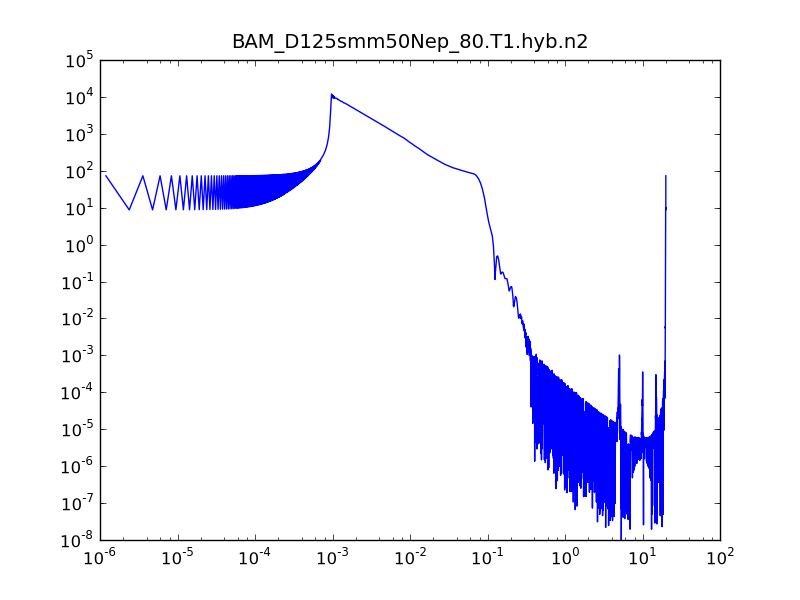
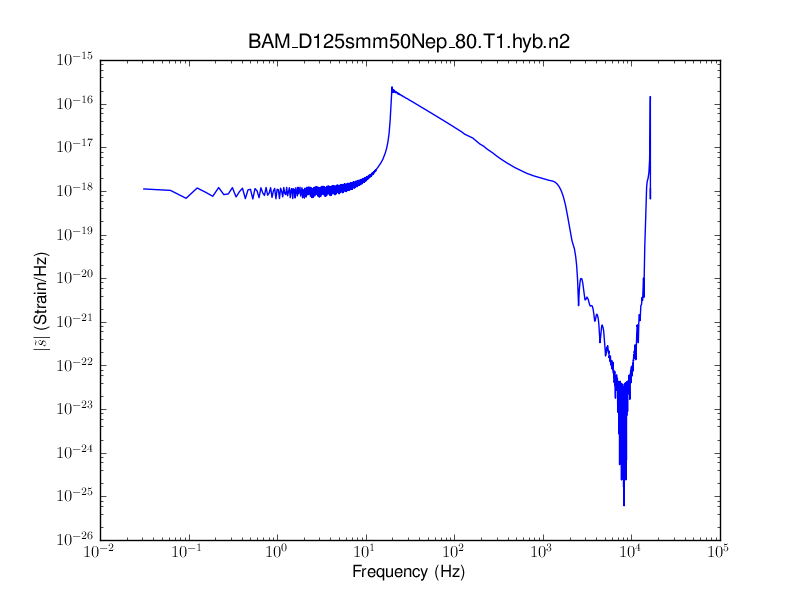
Added several NINJA-2 plots

diff --git a/lpekowsky/ninja2.tex b/lpekowsky/ninja2.tex
@@ -10,22 +10,209 @@ and suggest strategies for the advanced-LIGO era.
 
 \section{Hybrid pN/NR waveforms}
 
+\begin{table}
+\begin{center}
+\begin{tabular}{|l|r|r|r|l|c|}
+\hline
+Run & $q$ & Spin1${}_z$ & Spin2${}_z$ & pN Approximant & Refs \\
+\hline
+BAM\_D10spp85\_80.T4.hyb.n2 & 1.0 & 0.85 & 0.85 & TaylorT4 & \cite{Hannam:2007wf,Brugmann:2008zz} \\
+BAM\_D10spp85\_80.T1.hyb.n2 & 1.0 & 0.85 & 0.85 & TaylorT1 & \cite{Hannam:2007wf,Brugmann:2008zz} \\
+BAM\_D125smm50Nep\_80.T1.hyb.n2 & 1.0 & -0.50 & -0.50 & TaylorT1 & \cite{Hannam:2007wf,Brugmann:2008zz} \\
+BAM\_D125smm50Nep\_80.T4.hyb.n2 & 1.0 & -0.50 & -0.50 & TaylorT4 & \cite{Hannam:2007wf,Brugmann:2008zz} \\
+BAM\_D13smm75Nep\_96.T4.hyb.n2 & 1.0 & -0.75 & -0.75 & TaylorT4 & \cite{Hannam:2007wf,Brugmann:2008zz} \\
+BAM\_D13smm75Nep\_96.T1.hyb.n2 & 1.0 & -0.75 & -0.75 & TaylorT1 & \cite{Hannam:2007wf,Brugmann:2008zz} \\
+BAM\_D13smm85Nep\_88.T4.hyb.n2 & 1.0 & -0.85 & -0.85 & TaylorT4 & \cite{Hannam:2007wf,Brugmann:2008zz} \\
+BAM\_D13smm85Nep\_88.T1.hyb.n2 & 1.0 & -0.85 & -0.85 & TaylorT1 & \cite{Hannam:2007wf,Brugmann:2008zz} \\
+BAM\_D11spp50\_96.T4.hyb.n2 & 1.0 & 0.50 & 0.50 & TaylorT4 & \cite{Hannam:2007wf,Brugmann:2008zz} \\
+BAM\_D11spp50\_96.T1.hyb.n2 & 1.0 & 0.50 & 0.50 & TaylorT1 & \cite{Hannam:2007wf,Brugmann:2008zz} \\
+BAM\_D10spp75\_80.T1.hyb.n2 & 1.0 & 0.75 & 0.75 & TaylorT1 & \cite{Hannam:2007wf,Brugmann:2008zz} \\
+BAM\_D10spp75\_80.T4.hyb.n2 & 1.0 & 0.75 & 0.75 & TaylorT4 & \cite{Hannam:2007wf,Brugmann:2008zz} \\
+BAM\_D12smm25Nep\_80.T4.hyb.n2 & 1.0 & -0.25 & -0.25 & TaylorT4 & \cite{Hannam:2007wf,Brugmann:2008zz} \\
+BAM\_D12smm25Nep\_80.T1.hyb.n2 & 1.0 & -0.25 & -0.25 & TaylorT1 & \cite{Hannam:2007wf,Brugmann:2008zz} \\
+BAM\_EP\_um4\_D10-n96.T4.hyb.n2 & 4.0 & 0.00 & 0.00 & TaylorT4 & \cite{Hannam:2007wf,Brugmann:2008zz} \\
+BAM\_EP\_um4\_D10-n96.T1.hyb.n2 & 4.0 & 0.00 & 0.00 & TaylorT1 & \cite{Hannam:2007wf,Brugmann:2008zz} \\
+BAM\_um3\_88.T4.hyb.n2 & 3.0 & 0.00 & 0.00 & TaylorT4 & \cite{Hannam:2007wf,Brugmann:2008zz} \\
+BAM\_um3\_88.T1.hyb.n2 & 3.0 & 0.00 & 0.00 & TaylorT1 & \cite{Hannam:2007wf,Brugmann:2008zz} \\
+BAM\_um2\_88.T1.hyb.n2 & 2.0 & 0.00 & 0.00 & TaylorT1 & \cite{Hannam:2007wf,Brugmann:2008zz} \\
+BAM\_um2\_88.T4.hyb.n2 & 2.0 & 0.00 & 0.00 & TaylorT4 & \cite{Hannam:2007wf,Brugmann:2008zz} \\
+BAM\_R6\_PN\_80.T1.hyb.n2 & 1.0 & 0.00 & 0.00 & TaylorT1 & \cite{Hannam:2007wf,Brugmann:2008zz} \\
+BAM\_R6\_PN\_80.T4.hyb.n2 & 1.0 & 0.00 & 0.00 & TaylorT4 & \cite{Hannam:2007wf,Brugmann:2008zz} \\
+BAM\_D12spp25\_96.T4.hyb.n2 & 1.0 & 0.25 & 0.25 & TaylorT4 & \cite{Hannam:2007wf,Brugmann:2008zz} \\
+BAM\_D12spp25\_96.T1.hyb.n2 & 1.0 & 0.25 & 0.25 & TaylorT1 & \cite{Hannam:2007wf,Brugmann:2008zz} \\
+BAM\_q2a0a025\_T\_96\_344.T1.hyb.n2.bbh & 2.0 & 0.25 & 0.00 & {} & \cite{,Brugmann:2008zz} \\
+BAM\_q2a0a025\_T\_96\_344.T4.hyb.n2.bbh & 2.0 & 0.25 & 0.00 & {} & \cite{,Brugmann:2008zz} \\
+\hline
+\end{tabular}
+\end{center}
+\caption[BAM submissions to NINJA-2]{
+\label{tab:ninja2_bam}
+BAM submissions to NINJA-2}
+\end{table}
+
+\begin{table}
+\begin{center}
+\begin{tabular}{|l|r|r|r|l|c|}
+\hline
+Run & $q$ & Spin1${}_z$ & Spin2${}_z$ & pN Approximant & Refs \\
+\hline
+BAM\_hybrid\_om0.025etmq3S0.4\_0\_0\_S0.6\_0\_0\_72 & 3.0 & 0.40 & 0.60 & TaylorT4 & \cite{none,???} \\
+\hline
+\end{tabular}
+\end{center}
+\caption[FAU submissions to NINJA-2]{
+\label{tab:ninja2_fau}
+FAU submissions to NINJA-2}
+\end{table}
+
+\begin{table}
+\begin{center}
+\begin{tabular}{|l|r|r|r|l|c|}
+\hline
+Run & $q$ & Spin1${}_z$ & Spin2${}_z$ & pN Approximant & Refs \\
+\hline
+MayaKranc\_D12\_a0.00\_m129\_nj & 1.0 & 0.00 & 0.00 & TaylorT4 & \cite{,} \\
+MayaKranc\_D10\_a0.90\_m129\_nj & 1.0 & 0.90 & 0.90 & TaylorT4 & \cite{,} \\
+MayaKranc\_D10\_a0.20\_m77\_nj & 1.0 & 0.20 & 0.20 & TaylorT4 & \cite{,} \\
+MayaKranc\_D10\_a0.60\_m77\_nj & 1.0 & 0.60 & 0.60 & TaylorT4 & \cite{,} \\
+MayaKranc\_D12\_a0.60\_m103\_nj & 1.0 & 0.60 & 0.60 & TaylorT4 & \cite{,} \\
+MayaKranc\_Sp02py0935th90\_gr & 1.0 & 0.80 & 0.00 & TaylorT4 & \cite{,} \\
+MayaKranc\_D12\_a0.80\_m103\_nj & 1.0 & 0.80 & 0.80 & TaylorT4 & \cite{,} \\
+MayaKranc\_D12\_a0.00\_q2\_m90\_nj & 2.0 & 0.00 & 0.00 & TaylorT4 & \cite{,} \\
+MayaKranc\_D11\_a0.20\_q2\_m90\_nj & 2.0 & 0.02 & 0.09 & TaylorT4 & \cite{,} \\
+MayaKranc\_D10\_a0.40\_m90\_nj & 1.0 & 0.40 & 0.40 & TaylorT4 & \cite{,} \\
+MayaKranc\_D10\_a0.80\_m90\_nj & 1.0 & 0.80 & 0.80 & TaylorT4 & \cite{,} \\
+MayaKranc\_D12\_a0.40\_m103\_nj & 1.0 & 0.40 & 0.40 & TaylorT4 & \cite{,} \\
+MayaKranc\_D12\_a0.20\_m103\_nj & 1.0 & 0.20 & 0.20 & TaylorT4 & \cite{,} \\
+\hline
+\end{tabular}
+\end{center}
+\caption[GATech submissions to NINJA-2]{
+\label{tab:ninja2_gatech}
+GATech submissions to NINJA-2}
+\end{table}
+
+\begin{table}
+\begin{center}
+\begin{tabular}{|l|r|r|r|l|c|}
+\hline
+Run & $q$ & Spin1${}_z$ & Spin2${}_z$ & pN Approximant & Refs \\
+\hline
+dq4 & 4.0 & 0.00 & 0.00 & TaylorT1 & \cite{,Sperhake:2006cy} \\
+\hline
+\end{tabular}
+\end{center}
+\caption[LEAN submissions to NINJA-2]{
+\label{tab:ninja2_lean}
+LEAN submissions to NINJA-2}
+\end{table}
+
+\begin{table}
+\begin{center}
+\begin{tabular}{|l|r|r|r|l|c|}
+\hline
+Run & $q$ & Spin1${}_z$ & Spin2${}_z$ & pN Approximant & Refs \\
+\hline
+Llama\_d550-h64-Hybrid & 1.0 & 0.00 & 0.00 & 3.5pNTaylorF2 & \cite{Reisswig:2009rx,Reisswig:2009rx} \\
+Llama\_d4d4-q1--D10-h64-r250.T4.hybrid & 1.0 & -0.40 & -0.40 & TaylorT4 & \cite{Pollney:2010hs,Pollney:2009yz,} \\
+Llama\_d4d4-q1--D10-h64-r250.T1.hybrid & 1.0 & -0.40 & -0.40 & TaylorT1 & \cite{Pollney:2010hs,Pollney:2009yz,} \\
+Llama\_u4u4-q1--D8-h64-r250.T1.hybrid & 1.0 & 0.40 & 0.40 & TaylorT1 & \cite{Pollney:2010hs,Pollney:2009yz,} \\
+Llama\_u4u4-q1--D8-h64-r250.T4.hybrid & 1.0 & 0.40 & 0.40 & TaylorT4 & \cite{Pollney:2010hs,Pollney:2009yz,} \\
+Llama\_d5q2-h016-Hybrid & 2.0 & 0.00 & 0.00 & 3.5pNTaylorF2 & \cite{,Reisswig:2009rx} \\
+Llama\_u2u2-q1--D8-h64-r250.T1.hybrid & 1.0 & 0.20 & 0.20 & TaylorT1 & \cite{Pollney:2010hs,Pollney:2009yz,} \\
+Llama\_u2u2-q1--D8-h64-r250.T4.hybrid & 1.0 & 0.20 & 0.20 & TaylorT4 & \cite{Pollney:2010hs,Pollney:2009yz,} \\
+Llama\_d2d2-q1--D10-h64-r250.T1.hybrid & 1.0 & -0.20 & -0.20 & TaylorT1 & \cite{Pollney:2010hs,Pollney:2009yz,} \\
+Llama\_d2d2-q1--D10-h64-r250.T4.hybrid & 1.0 & -0.20 & -0.20 & TaylorT4 & \cite{Pollney:2010hs,Pollney:2009yz,} \\
+\hline
+\end{tabular}
+\end{center}
+\caption[Llama submissions to NINJA-2]{
+\label{tab:ninja2_llama}
+Llama submissions to NINJA-2}
+\end{table}
+
+\begin{table}
+\begin{center}
+\begin{tabular}{|l|r|r|r|l|c|}
+\hline
+Run & $q$ & Spin1${}_z$ & Spin2${}_z$ & pN Approximant & Refs \\
+\hline
+LazEV\_D8.4\_10to1\_nj\_hybrid & 10.0 & 0.00 & 0.00 & TaylorT4 & \cite{Campanelli:2005dd} \\
+\hline
+\end{tabular}
+\end{center}
+\caption[RIT submissions to NINJA-2]{
+\label{tab:ninja2_rit}
+RIT submissions to NINJA-2}
+\end{table}
+
+\begin{table}
+\begin{center}
+\begin{tabular}{|l|r|r|r|l|c|}
+\hline
+Run & $q$ & Spin1${}_z$ & Spin2${}_z$ & pN Approximant & Refs \\
+\hline
+SpEC\_q6s0 & 6.0 & 0.00 & 0.00 & TaylorT1 & \cite{SpECWebsite} \\
+SpEC\_q4s0 & 4.0 & 0.00 & 0.00 & TaylorT2 & \cite{SpECWebsite} \\
+SpEC\_EqualMassAntiAlignedSpins & 1.0 & -0.44 & -0.44 & NA & \cite{chu-2009,SpECWebsite} \\
+SpEC\_q1s-0.95 & 1.0 & -0.95 & -0.95 & TaylorT1 & \cite{SpECWebsite} \\
+SpEC\_q2s0 & 2.0 & 0.00 & 0.00 & TaylorT2 & \cite{SpECWebsite} \\
+SpEC\_EqualMassAlignedSpins & 1.0 & 0.44 & 0.44 & NA & \cite{chu-2009,SpECWebsite} \\
+SpEC\_q3s0 & 3.0 & 0.00 & 0.00 & TaylorT2 & \cite{SpECWebsite} \\
+SpEC\_EqualMassNonspinning & 1.0 & 0.00 & 0.00 & TaylorT4 & \cite{Scheel:2008rj,SpECWebsite} \\
+\hline
+\end{tabular}
+\end{center}
+\caption[SpEC submissions to NINJA-2]{
+\label{tab:ninja2_spec}
+SpEC submissions to NINJA-2}
+\end{table}
+
+\begin{table}
+\begin{center}
+\begin{tabular}{|l|r|r|r|l|c|}
+\hline
+Run & $q$ & Spin1${}_z$ & Spin2${}_z$ & pN Approximant & Refs \\
+\hline
+UIUC\_spin\_-0.25\_om0.0528\_22-HYBRID & 1.0 & -0.25 & -0.25 & NA & \cite{none} \\
+UIUC\_spin\_0.85\_om0.0536\_22-HYBRID & 1.0 & 0.85 & 0.85 & NA & \cite{none} \\
+\hline
+\end{tabular}
+\end{center}
+\caption[UIUC submissions to NINJA-2]{
+\label{tab:ninja2_uiuc}
+UIUC submissions to NINJA-2}
+\end{table}
+
+
+\begin{figure}
+  \includegraphics[width=\linewidth]{figures/ninja2/ninja2_cat.png}
+  \caption[Parameters of the NINJA-2 submissions]{
+  \label{f:ninja2_param_map}
+Parameters of the NINJA-2 hybrid waveform submissions showing the
+symmetric mass ration $\eta$ and dimensionless spin parameter $\chi$
+after scaling the waveforms to a total mass of 10 $\msun$.  The
+numbers indicate how many distinct waveforms with the specified value
+were submitted.}
+\end{figure}%
+
 \subsection{Verifying the hybrid waveforms}
 
 
 \begin{figure}
   \includegraphics[width=0.5\linewidth]{figures/ninja2/bam_d125smm50nep_80_t1_hyb_n2_amp.png}
-  \includegraphics[width=0.5\linewidth]{figures/ninja2/bam_d125smm50nep_80_t1_hyb_n2_amp.png}
+  \includegraphics[width=0.5\linewidth]{figures/ninja2/bam_d125smm50nep_80_t1_hyb_n2_amp_v2.png}
   \caption[Frequency-domain hybrid NINJA-2 waveforms]{
   \label{f:ninja2_freq_hybrids}
-Fourier amplitude of the (2,2) mode of a sample NINJA-2
-hybrid waveform from the BAM/AEI group.
-\Note{I should remake these in scaled to $10\msun$ to give the axes
-units}  The waveform on the left is the version initially submitted,
-note there is a visible ``kink'' in the waveform at the hybridization
-frequency.  The waveform on the right has been re-hybridized and there
-is no longer a visible kink.  This feature did not show up in the time
-domain view of the waveform.}
+Fourier amplitude of the (2,2) mode of a sample NINJA-2 hybrid
+waveform from the BAM/AEI group.  The waveform has been scaled to 10
+$\msun$ and placed 1 Mpc from the detector to give it physical units.
+\Note{I need to dig up the old version of the waveform and remake it
+with the new code} The waveform on the left is the version
+initially submitted, note there is a visible ``kink'' in the waveform
+at the hybridization frequency.  The waveform on the right has been
+re-hybridized and there is no longer a visible kink.  This feature did
+not show up in the time domain view of the waveform.}
 \end{figure}%
 
 \begin{figure}
@@ -44,6 +231,14 @@ where the two pN waveforms dominate the overlap.}
 
 \section{Construction of the NINJA-2 data set}
 
+\begin{figure}
+  \includegraphics[width=\linewidth]{figures/ninja2/ninja2_dataset.png}
+  \caption[Parameters of the NINJA-2 two-month data set]{
+  \label{f:ninja2_dataset}
+Distribution of mass, spin and distance paramters in the two-month,
+Gaussian-noise data set.
+}
+\end{figure}%
 \section{Data analysis}
 
 
